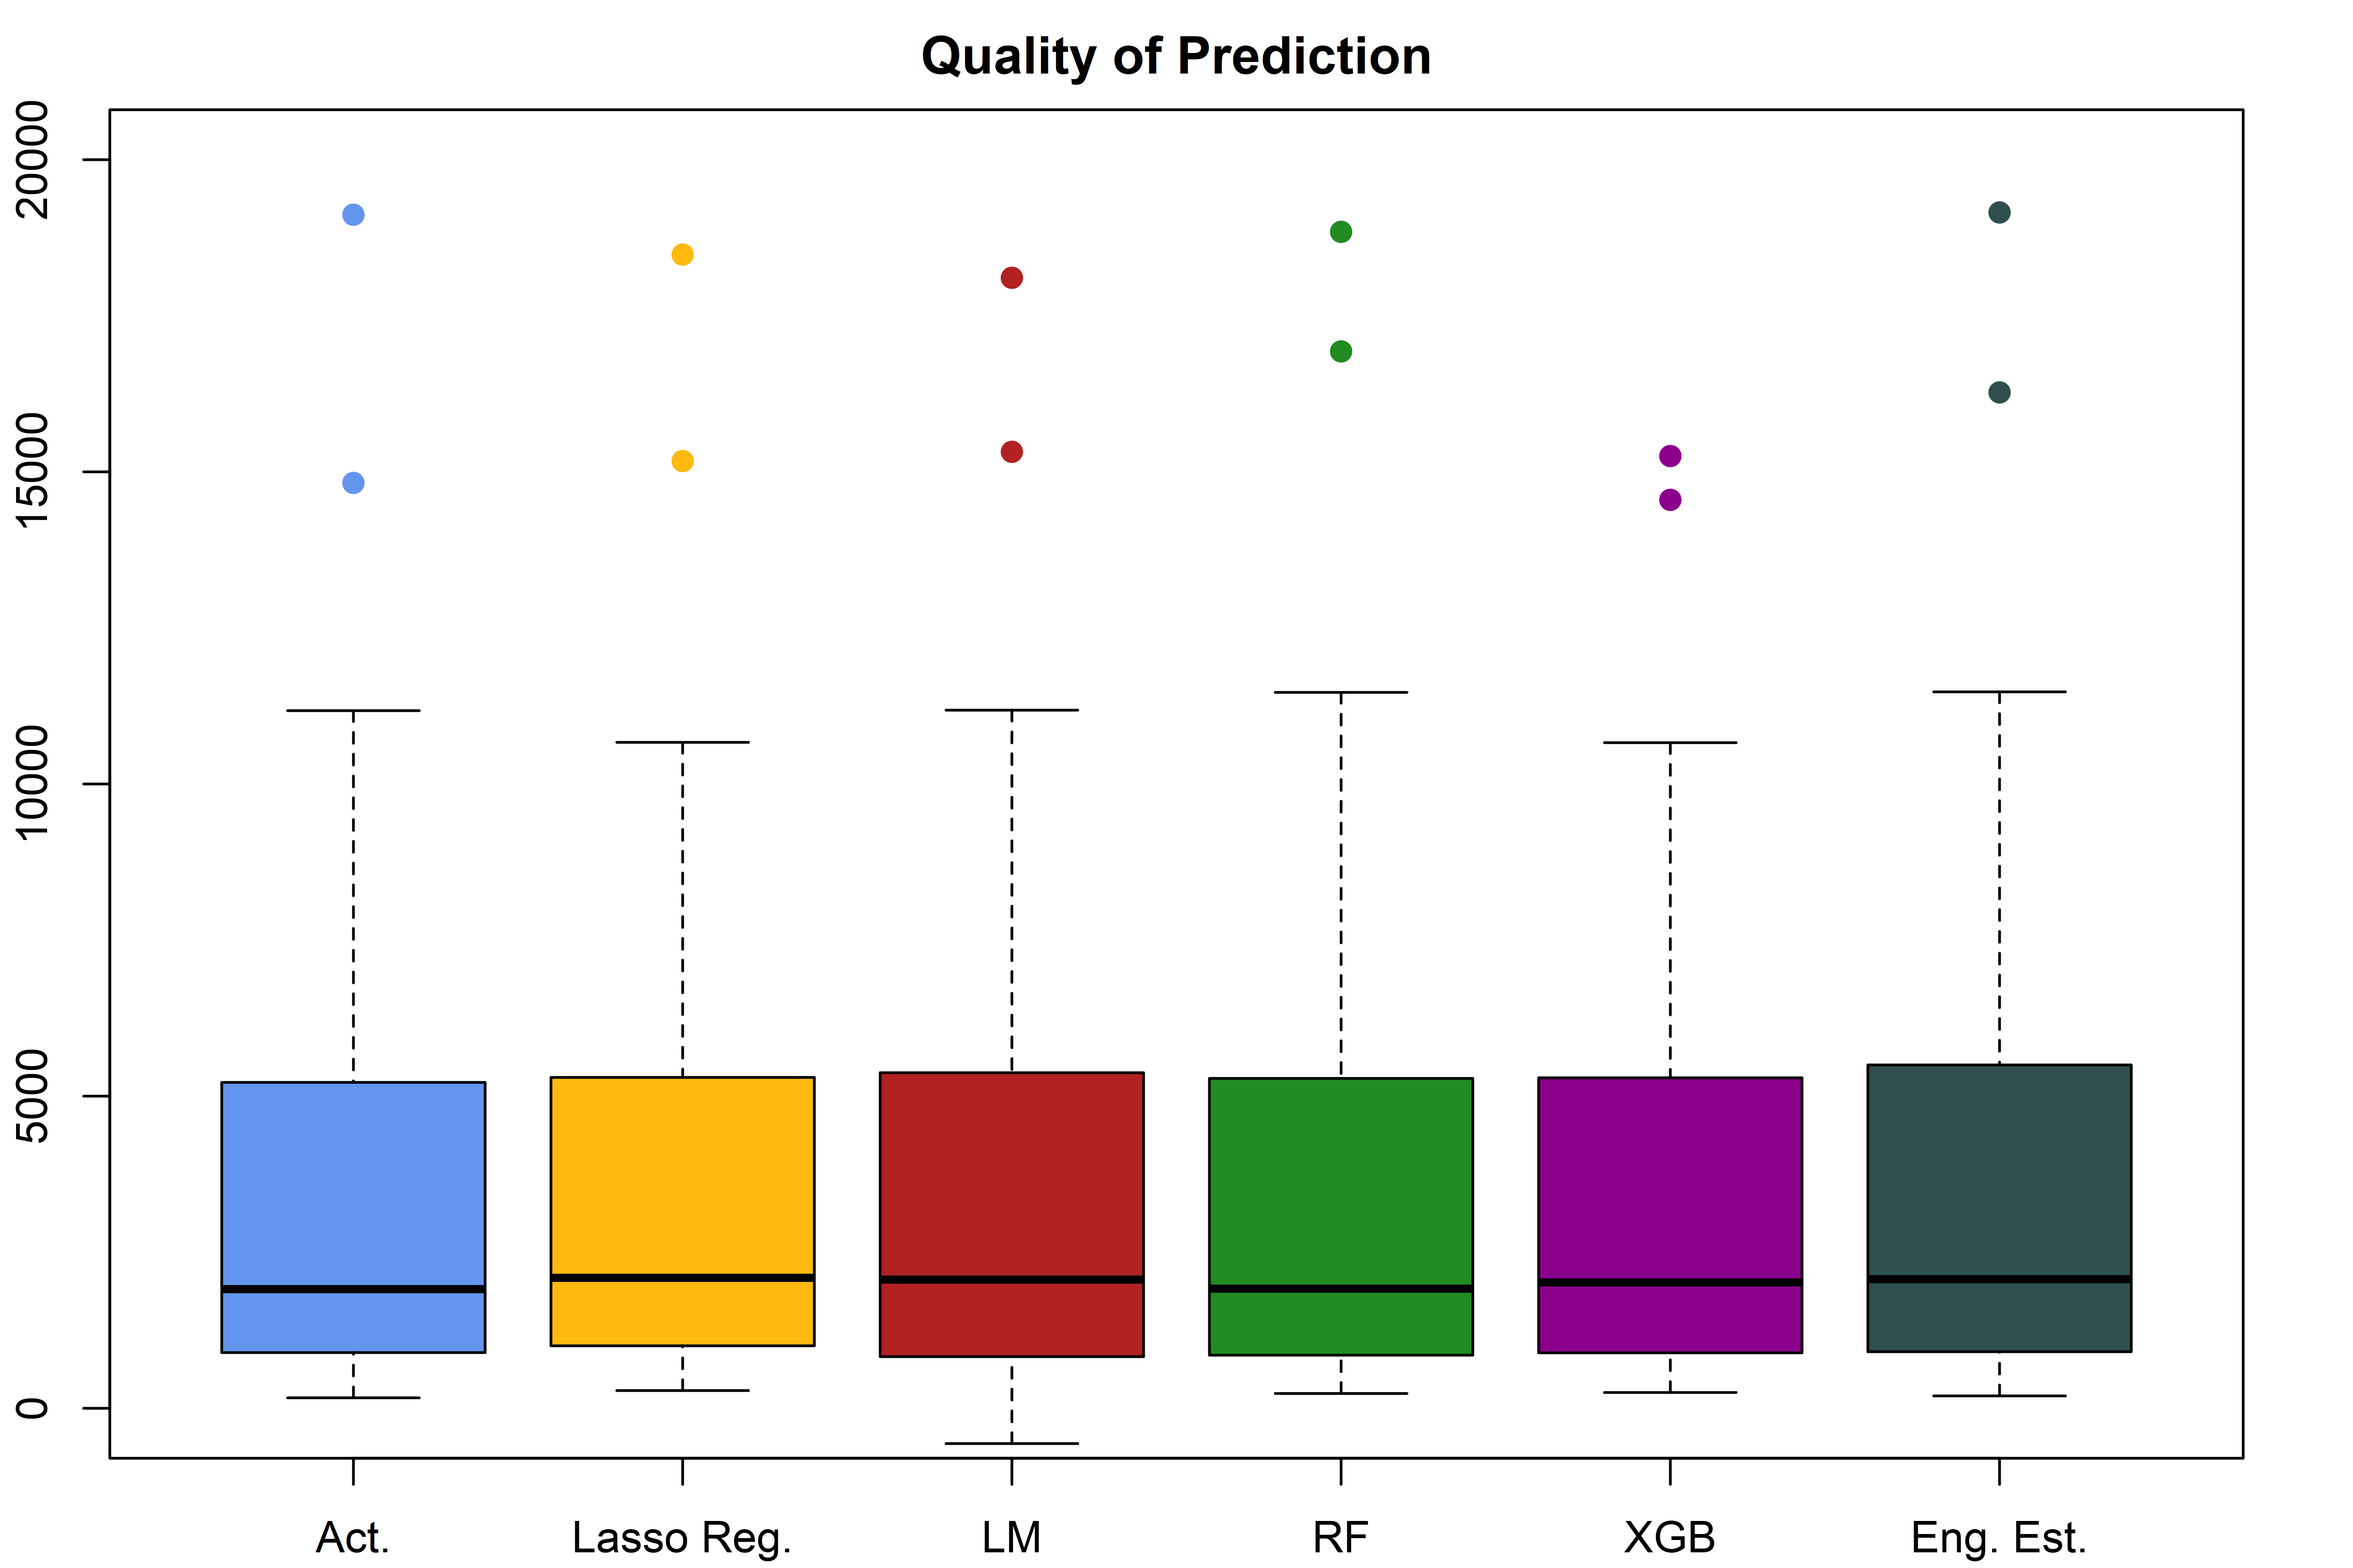
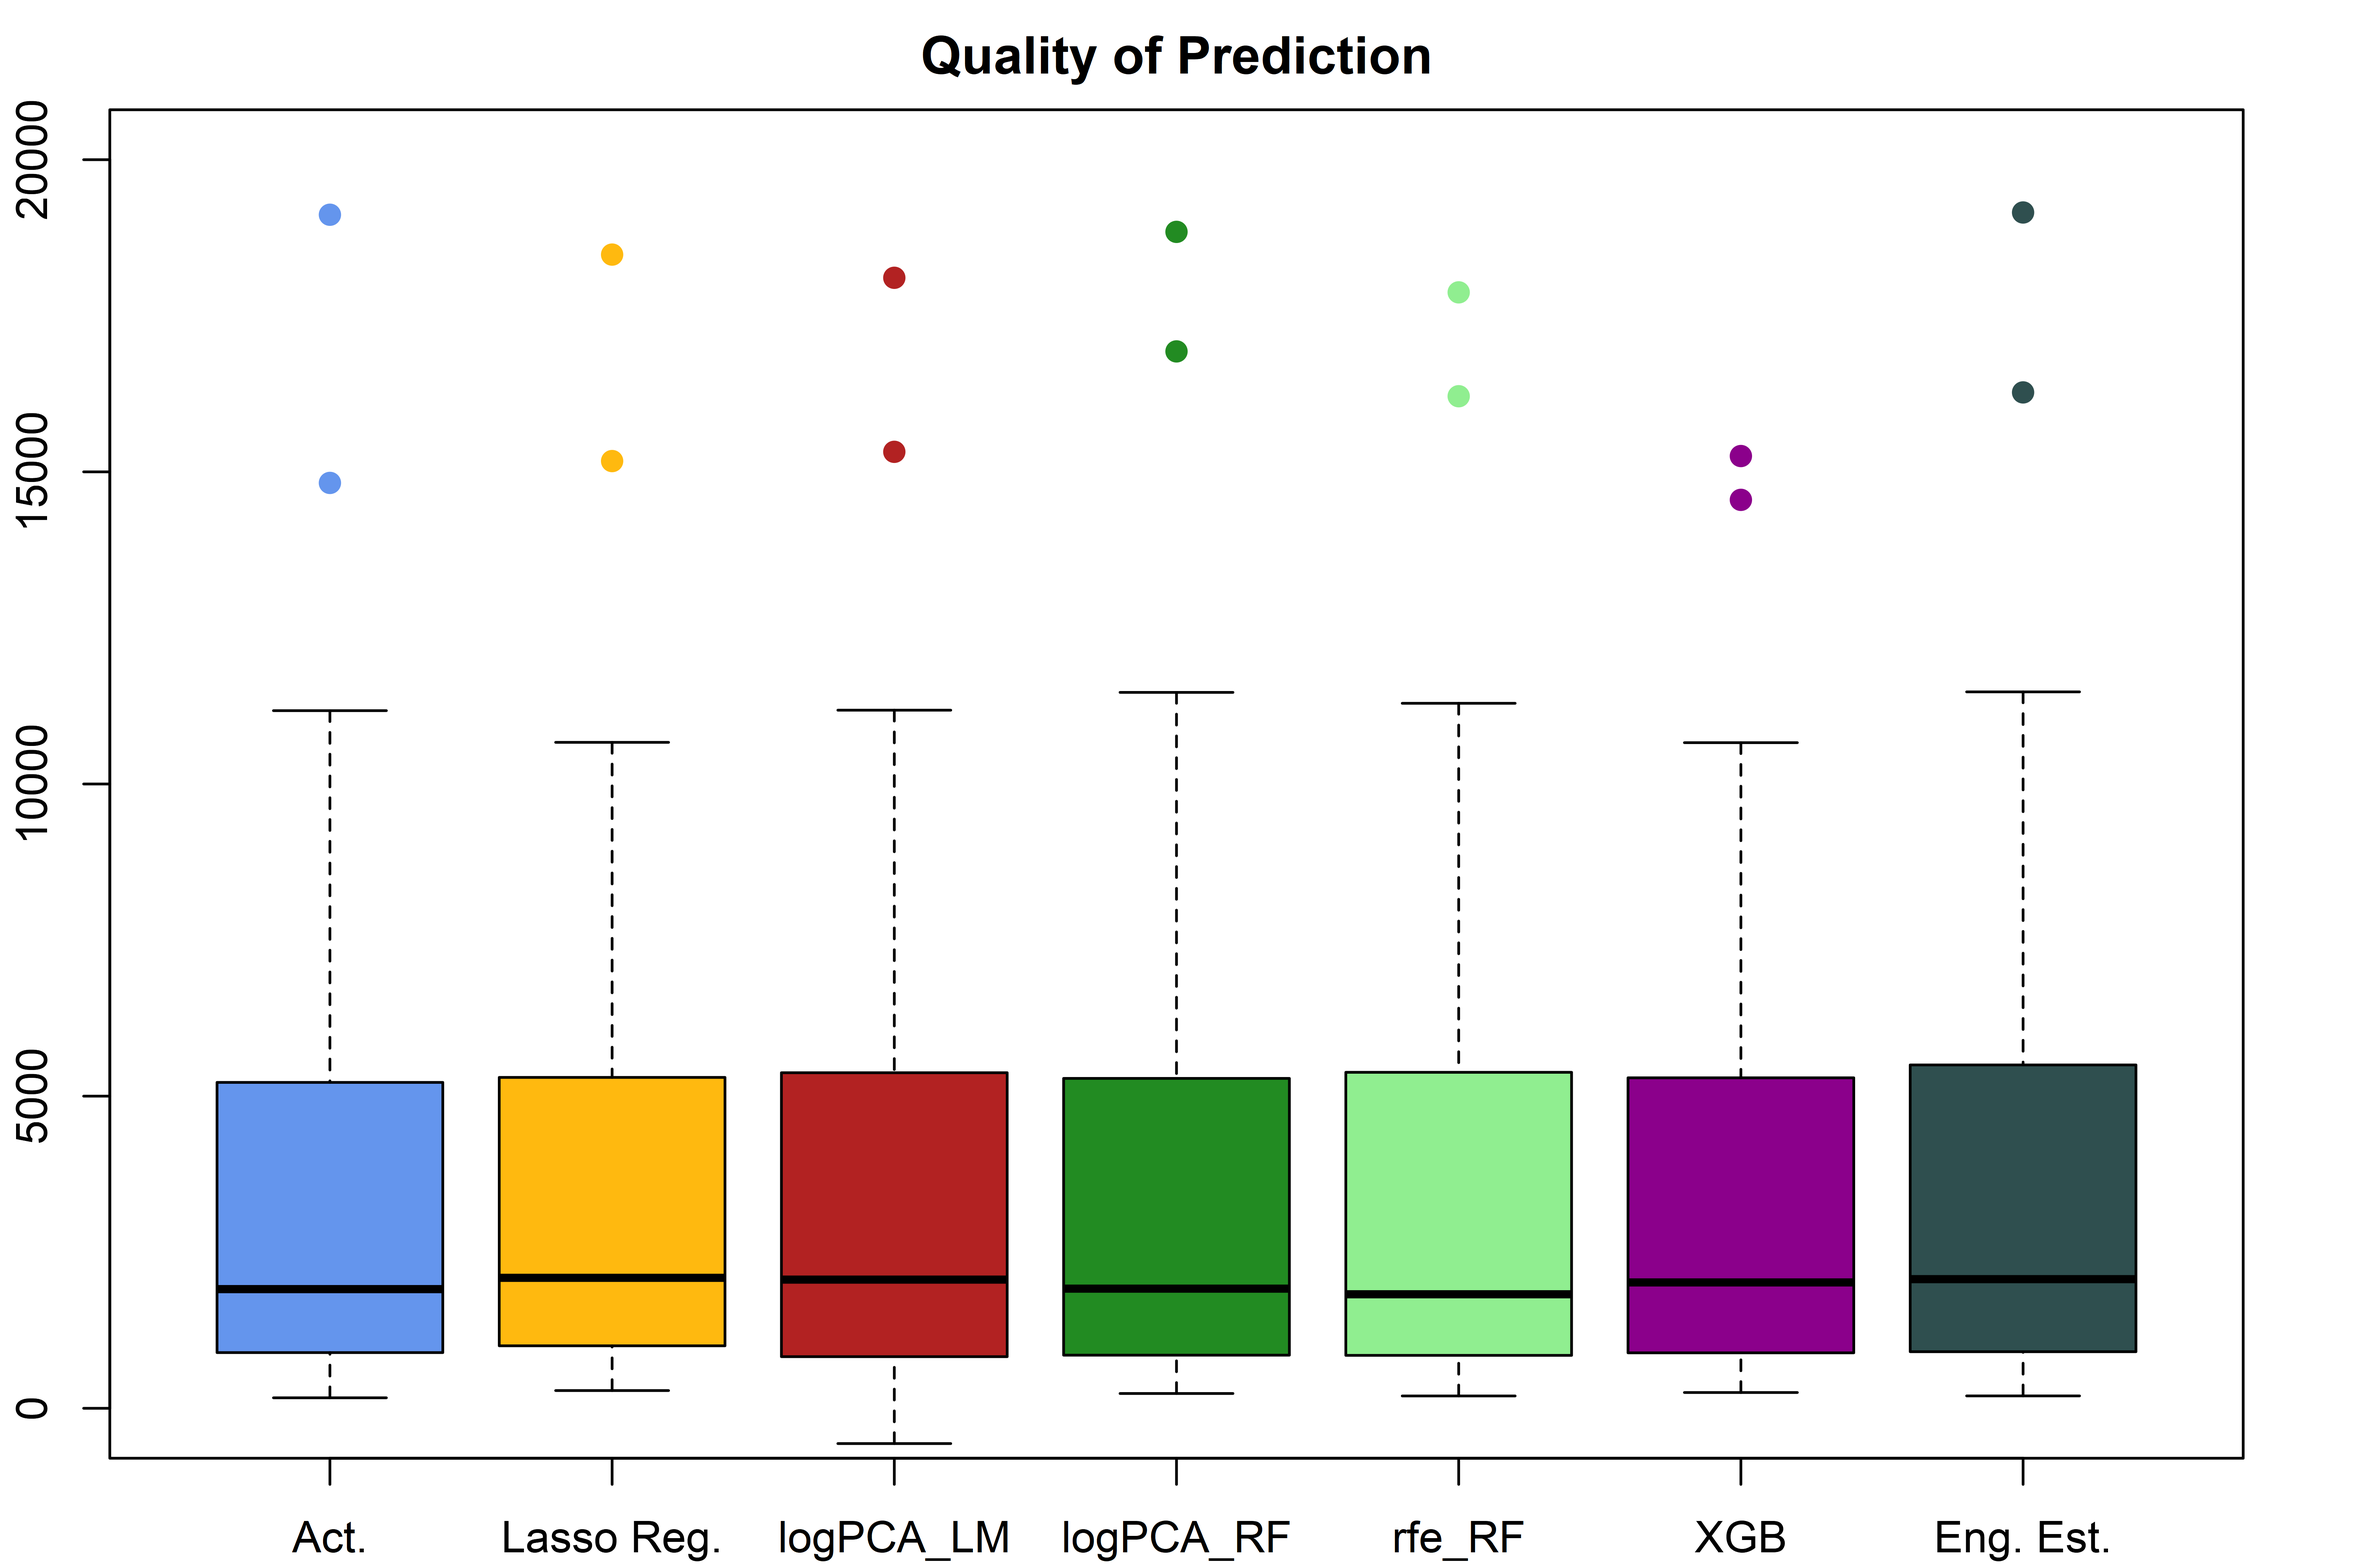
First round CV results for rfe_RF

diff --git a/README.md b/README.md
@@ -21,18 +21,18 @@ been compared:
         CV)](https://github.com/Base-R-Best-R/Auction/blob/main/Code/Models/Colab/Parallel_NestedCV_RF.ipynb)
 -   [XGBoost](https://github.com/Base-R-Best-R/Auction/blob/main/Code/Models/Colab/XGboost.ipynb)
 
-# Best Model (07/13/22)
+# Best Model (07/15/22)
 
 The boxplots below display the out of sample predicted values for the
-lasso regression and the random forest with logistic PCA pre-processing.
+lasso regression and the random forest with logistic PCA preprocessing.
 Further, as the Engineers Estimate may be considered as a benchmark for
 prediction it is also included in the plot.
 
 ![](README_files/figure-gfm/unnamed-chunk-2-1.png)<!-- -->
 
 The boxplot shows that the Lasso regression seems to be able to predict
-the outliers the best when compared to the random forest and the
-Engineer’s Estimate.
+the outliers the best when compared to the remaining models and the
+Engineer’s Estimate as a benchmark.
 
 ![](README_files/figure-gfm/unnamed-chunk-3-1.png)<!-- -->
 
@@ -42,10 +42,10 @@ better, which is evident from the boxplots of predicted values. We
 observe that the Lasso model seems to outperform the other models across
 most of the observations in the validation set.
 
-|      |    Lasso |       LM |       RF |      XGB | Eng. Est. |
-|:-----|---------:|---------:|---------:|---------:|----------:|
-| RMSE | 326.1261 | 609.4673 | 509.7934 | 671.6634 |  497.0567 |
-| MAE  | 241.7894 | 448.2662 | 348.2869 | 376.3191 |  327.9388 |
+|      |    Lasso | logPCA_LM | logPCA_RF |   rfe_RF |      XGB | Eng. Est. |
+|:-----|---------:|----------:|----------:|---------:|---------:|----------:|
+| RMSE | 326.1261 |  609.4673 |  509.7934 | 536.9718 | 671.6634 |  497.0567 |
+| MAE  | 241.7894 |  448.2662 |  348.2869 | 366.6570 | 376.3191 |  327.9388 |
 
 The performance comparison utilizing linear and quadratic loss functions
 further emphasizes the dominance of the Lasso model.
